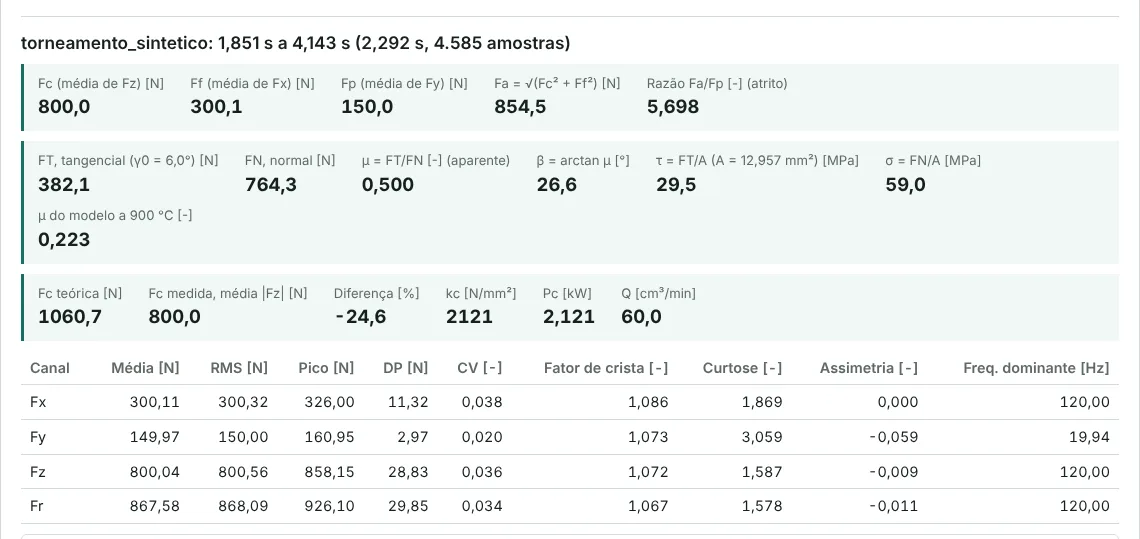
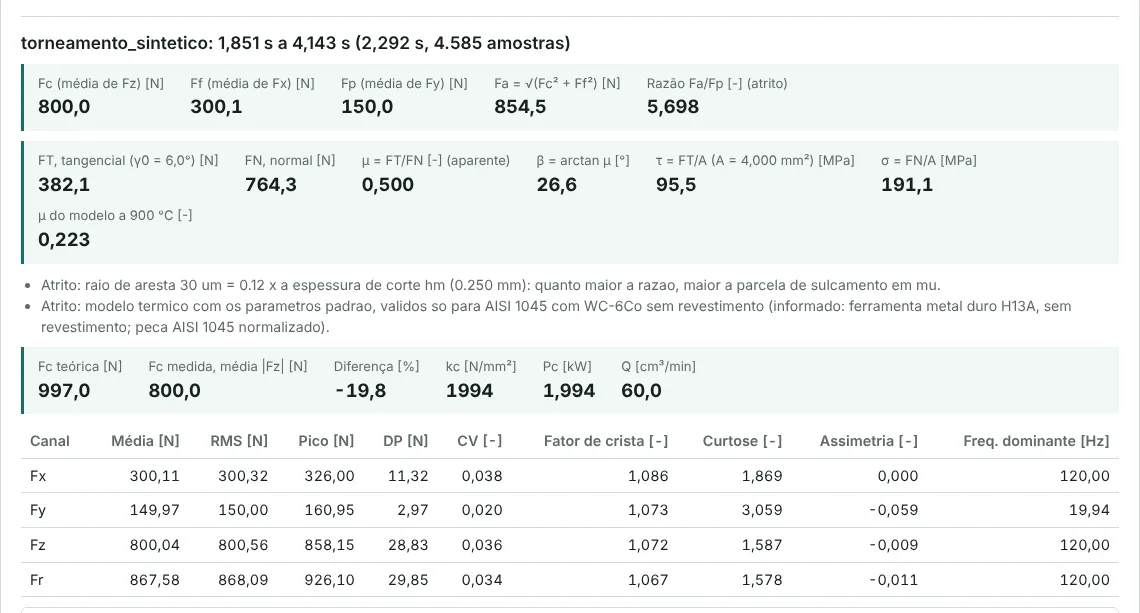
feat(forcas): registro de ferramenta e peca; g0 e kr em um campo so
- quadro 'Ferramenta e peca' na etapa 2: inserto, material, revestimento, material da peca,
  g0, kr, a0, raio de ponta, raio de aresta e VB (opcionais); vai para o relatorio e ferramenta.csv
- g0 e kr saem dos quadros de atrito e de forca teorica e passam a vir da ferramenta
  (obrigatorios so quando uma dessas opcoes esta marcada); configuracao salva antiga e migrada
- avisos na analise do atrito conforme a ferramenta: corte nao ortogonal (kr, raio de ponta),
  desgaste de flanco, raio de aresta (com rb/hm) e modelo termico com parametros padrao
- texto livre neutralizado no CSV (ponto e virgula, quebra de linha, inicio de formula)
- manual de forcas v2.3.0 e capturas; 6 verificacoes novas no autoteste

Claude-Session: https://claude.ai/code/session_01ByixqnmvEjwM8A8Y9nz9he

diff --git a/forcas/manual.html b/forcas/manual.html
@@ -54,7 +54,7 @@
 <article class="doc">
 <header>
   <h1>Manual técnico de uso: forças de usinagem</h1>
-  <p>Módulo de forças de usinagem do LabForce NUPEF, versão web 2.2.0. Redação conforme a ASD-STE100, adaptada ao português.</p>
+  <p>Módulo de forças de usinagem do LabForce NUPEF, versão web 2.3.0. Redação conforme a ASD-STE100, adaptada ao português.</p>
 </header>
 
 <section id="s1">
@@ -259,11 +259,27 @@
     <tr><td>Faixa mínima</td><td>0,5</td><td>s</td><td>Para aceitar faixas mais curtas ou exigir faixas mais longas.</td></tr>
   </tbody>
 </table></div>
-<p>Os campos do atrito só aparecem com a opção <strong>Atrito na face da ferramenta</strong> marcada (tipo de ensaio Torneamento).</p>
+<p>O quadro <strong>Ferramenta e peça</strong> registra a condição do ensaio. Todos os campos são opcionais, exceto γ0 e κr quando o atrito ou a força teórica estiverem marcados.</p>
+<div class="tabela-rolar"><table>
+  <thead><tr><th>Campo</th><th>Valor padrão</th><th>Unidade</th><th>Uso</th></tr></thead>
+  <tbody>
+    <tr><td>Identificação / código do inserto</td><td>vazio</td><td>-</td><td>Registro (exemplo: <code>CNMG 120408</code>).</td></tr>
+    <tr><td>Material e classe da ferramenta</td><td>vazio</td><td>-</td><td>Registro. Aparece no aviso do modelo de atrito com a temperatura.</td></tr>
+    <tr><td>Revestimento</td><td>vazio</td><td>-</td><td>Registro. Aparece no mesmo aviso.</td></tr>
+    <tr><td>Material da peça</td><td>vazio</td><td>-</td><td>Registro. Aparece no mesmo aviso.</td></tr>
+    <tr><td>γ0</td><td>0</td><td>°</td><td>Ângulo de saída, entre −90° e 90°. Entra no cálculo do atrito e da força teórica. No ensaio de atrito com plano inclinado de α, use γ0 = α − 90°.</td></tr>
+    <tr><td>κr</td><td>90</td><td>°</td><td>Ângulo de posição, entre 0° e 180°. Entra no cálculo da força teórica. Diferente de 90°: aviso de corte não ortogonal no atrito.</td></tr>
+    <tr><td>α0</td><td>vazio</td><td>°</td><td>Ângulo de folga. Registro.</td></tr>
+    <tr><td>rε</td><td>vazio</td><td>mm</td><td>Raio de ponta. Registro. Maior que 0: aviso de corte não ortogonal no atrito.</td></tr>
+    <tr><td>rβ</td><td>vazio</td><td>µm</td><td>Raio de aresta. Registro. Maior que 0: aviso de sulcamento no atrito, com a razão rβ/hm quando a força teórica estiver marcada.</td></tr>
+    <tr><td>VB</td><td>vazio</td><td>mm</td><td>Desgaste de flanco no ensaio. Registro. Maior que 0: aviso no atrito.</td></tr>
+  </tbody>
+</table></div>
+<p class="seg seg-nota"><strong>NOTA:</strong> Os campos de registro não entram em nenhum cálculo. O módulo não corrige μ pelo raio de aresta nem pelo desgaste: ele só avisa que essas condições alteram o valor aparente.</p>
+<p>Os campos do atrito só aparecem com a opção <strong>Atrito na face da ferramenta</strong> marcada (tipo de ensaio Torneamento). O ângulo γ0 vem do quadro <strong>Ferramenta e peça</strong>.</p>
 <div class="tabela-rolar"><table>
   <thead><tr><th>Campo</th><th>Valor padrão</th><th>Unidade</th><th>Quando alterar</th></tr></thead>
   <tbody>
-    <tr><td>γ0</td><td>0</td><td>°</td><td>Em cada ferramenta: use o ângulo de saída real, entre −90° e 90°. No ensaio de atrito com plano inclinado de α, use γ0 = α − 90°.</td></tr>
     <tr><td>A</td><td>vazio</td><td>mm²</td><td>Para calcular as tensões médias de contato. Vazio: o módulo não calcula as tensões. No ensaio de atrito, use <strong>Calcular A no ensaio de atrito</strong> com b1, b2, t e α.</td></tr>
     <tr><td>T</td><td>vazio</td><td>°C</td><td>Para calcular μ pelo modelo com a temperatura. Use uma temperatura de contato estimada por medição ou por simulação. Vazio: o módulo não calcula o modelo.</td></tr>
     <tr><td>μ0</td><td>0,7</td><td>-</td><td>Quando o par de materiais não for AISI 1045 com metal duro WC-6Co sem revestimento.</td></tr>
@@ -272,15 +288,13 @@
     <tr><td>T de fusão</td><td>1500</td><td>°C</td><td>Use a temperatura de fusão do material da peça. Deve ser maior que T0.</td></tr>
   </tbody>
 </table></div>
-<p>Os campos da força teórica só aparecem com a opção <strong>Força de corte teórica</strong> marcada.</p>
+<p>Os campos da força teórica só aparecem com a opção <strong>Força de corte teórica</strong> marcada. Os ângulos κr e γ0 vêm do quadro <strong>Ferramenta e peça</strong>.</p>
 <div class="tabela-rolar"><table>
   <thead><tr><th>Campo</th><th>Valor padrão</th><th>Unidade</th><th>Quando alterar</th></tr></thead>
   <tbody>
     <tr><td>ap</td><td>2</td><td>mm</td><td>Em cada ensaio: use a profundidade de corte real.</td></tr>
     <tr><td>fn</td><td>0,25</td><td>mm/rot</td><td>Em cada ensaio: use o avanço real.</td></tr>
     <tr><td>vc</td><td>120</td><td>m/min</td><td>Em cada ensaio. Para calcular vc pelo diâmetro D [mm] e pela rotação n [rpm], use <strong>Calcular vc pelo diâmetro e pela rotação</strong>.</td></tr>
-    <tr><td>κr</td><td>90</td><td>°</td><td>Quando o ângulo de posição da ferramenta for outro.</td></tr>
-    <tr><td>γ0</td><td>0</td><td>°</td><td>Quando o ângulo de saída da ferramenta for outro.</td></tr>
     <tr><td>kc1</td><td>vazio</td><td>N/mm²</td><td>Sempre: digite o valor do catálogo para o material da peça.</td></tr>
     <tr><td>mc</td><td>0,25</td><td>-</td><td>Quando o catálogo der outro valor para o material da peça.</td></tr>
   </tbody>
@@ -322,8 +336,8 @@
 </ol>
 <h3 id="s10-2">10.2 Configurar a análise</h3>
 <figure>
-  <img src="img/manual/configuracao.webp" width="1140" height="1595" alt="Etapa 2: quadros de colunas do arquivo, calibração por canal com fatores 1,0, faixas e saídas, o quadro de componentes da força com Fc, Ff e Fp e o canal de cada uma, o quadro do atrito na face da ferramenta com γ0, área de contato e temperatura de contato, e o quadro da força de corte teórica com ap, fn, vc, κr, γ0, kc1 e mc." loading="lazy">
-  <figcaption>Figura 3 — Etapa 2 com o atrito na face da ferramenta e a força de corte teórica marcados.</figcaption>
+  <img src="img/manual/configuracao.webp" width="1140" height="2028" alt="Etapa 2: quadros de colunas do arquivo, calibração por canal com fatores 1,0, faixas e saídas, o quadro de componentes da força com Fc, Ff e Fp e o canal de cada uma, o quadro de ferramenta e peça com identificação, materiais, γ0, κr, α0, rε, rβ e VB, o quadro do atrito na face da ferramenta com área de contato e temperatura de contato, e o quadro da força de corte teórica com ap, fn, vc, kc1 e mc." loading="lazy">
+  <figcaption>Figura 3 — Etapa 2 com a ferramenta informada e com o atrito na face da ferramenta e a força de corte teórica marcados.</figcaption>
 </figure>
 <ol class="passos">
   <li>Em <strong>Colunas do arquivo</strong>, escolha a grandeza de cada coluna.</li>
@@ -333,7 +347,8 @@
   <li>Para delimitar antes uma região de interesse, marque <strong>Delimitar antes uma região de interesse (zoom)</strong>.</li>
   <li>Para escolher um zoom diferente para cada faixa, marque também <strong>Zoom em cada faixa</strong>.</li>
   <li>Marque ou desmarque <strong>Espectro de amplitude (FFT)</strong> e <strong>Salvar gráficos (PNG)</strong>.</li>
-  <li>Para calcular o atrito na face da ferramenta, marque <strong>Atrito na face da ferramenta</strong> e preencha γ0. A área de contato e a temperatura de contato são opcionais (seção 8).</li>
+  <li>Em <strong>Ferramenta e peça</strong>, registre a ferramenta, a peça e os ângulos γ0 e κr (seção 8).</li>
+  <li>Para calcular o atrito na face da ferramenta, marque <strong>Atrito na face da ferramenta</strong>. A área de contato e a temperatura de contato são opcionais (seção 8).</li>
   <li>Para comparar com a força teórica, marque <strong>Força de corte teórica</strong> e preencha os campos (seção 8).</li>
   <li>Clique em <strong>Continuar</strong>.</li>
 </ol>
@@ -378,16 +393,17 @@
 <p>Cada rodada cria uma pasta de resultados nova. O módulo não substitui os resultados de rodadas anteriores.</p>
 <p>Com 1 faixa por ensaio, o rótulo é o nome do ensaio (exemplo: <code>E1.3</code>). Com 2 ou mais faixas, o rótulo tem o número da faixa (exemplo: <code>E1.3_f2</code>).</p>
 <figure>
-  <img src="img/manual/resultados.webp" width="1140" height="539" alt="Etapa 5: quadro das componentes Fc, Ff e Fp, da força ativa Fa e da razão Fa/Fp; quadro do atrito com FT, FN, μ, β, tensões τ e σ e μ do modelo; comparação da força teórica com a medida; tabela com média, RMS, pico, DP, CV, fator de crista, curtose, assimetria e frequência dominante de Fx, Fy, Fz e Fr." loading="lazy">
+  <img src="img/manual/resultados.webp" width="1140" height="613" alt="Etapa 5: quadro das componentes Fc, Ff e Fp, da força ativa Fa e da razão Fa/Fp; quadro do atrito com FT, FN, μ, β, tensões τ e σ e μ do modelo; comparação da força teórica com a medida; tabela com média, RMS, pico, DP, CV, fator de crista, curtose, assimetria e frequência dominante de Fx, Fy, Fz e Fr." loading="lazy">
   <figcaption>Figura 5 — Etapa 5: componentes da força e razão Fa/Fp, atrito na face da ferramenta, comparação com a força teórica e estatística por canal. Abaixo, a tela mostra os gráficos da faixa.</figcaption>
 </figure>
 <div class="tabela-rolar"><table>
   <thead><tr><th>Arquivo</th><th>Quando o módulo grava</th><th>Conteúdo</th></tr></thead>
   <tbody>
-    <tr><td><code>relatorio.txt</code></td><td>Sempre</td><td>Colunas, calibração, componentes da força, opções, taxa de amostragem, avisos, estatística, componentes e razão Fa/Fp de cada faixa.</td></tr>
+    <tr><td><code>relatorio.txt</code></td><td>Sempre</td><td>Colunas, calibração, ferramenta e peça, componentes da força, opções, taxa de amostragem, avisos, estatística, componentes e razão Fa/Fp de cada faixa.</td></tr>
     <tr><td><code>forcas_resumo.csv</code></td><td>Sempre</td><td>Uma linha por faixa e canal (Fx, Fy, Fz, Fr): tempos, n, fs, média, RMS, pico, DP, CV, fator de crista, curtose, assimetria, frequência dominante. Separador: ponto e vírgula. Decimal: vírgula.</td></tr>
     <tr><td><code>&lt;rótulo&gt;_faixa.csv</code></td><td>Sempre</td><td>As amostras da faixa: tempo [s], Fx, Fy, Fz e Fr [N], já com os fatores de calibração.</td></tr>
     <tr><td><code>componentes.csv</code></td><td>Sempre</td><td>Uma linha por faixa: processo, as 3 componentes com o canal e a média de cada uma [N], a força ativa Fa [N] e a razão Fa/Fp [-]. A razão fica vazia quando Fp é nula.</td></tr>
+    <tr><td><code>ferramenta.csv</code></td><td>Algum campo de <strong>Ferramenta e peça</strong> preenchido</td><td>Uma linha: identificação, material da ferramenta, revestimento, material da peça, γ0, κr, α0, rε, rβ e VB.</td></tr>
     <tr><td><code>atrito.csv</code></td><td>Atrito marcado</td><td>Uma linha por faixa: γ0, Fc, Ff, F<sub>T</sub>, F<sub>N</sub>, μ, β, área, tensões τ e σ, temperatura, μ do modelo e os parâmetros do modelo. Os campos sem valor ficam vazios.</td></tr>
     <tr><td><code>corte_teorico.csv</code></td><td>Força teórica marcada</td><td>Uma linha por faixa: parâmetros de corte, hm, kc, Fc teórica, Pc, Q, Fc medida e diferença [%].</td></tr>
     <tr><td><code>&lt;ensaio&gt;_faixas.png</code></td><td>Gráficos marcados</td><td>Forças do ensaio com as faixas marcadas (registro da seleção).</td></tr>
@@ -485,6 +501,7 @@ AISI 1045 com WC-6Co sem revestimento:
 </table></div>
 <p class="seg seg-cui"><strong>CUIDADO:</strong> O cálculo vale para corte ortogonal. A transformação despreza a força de sulcamento no raio da aresta e o desgaste de flanco, e supõe μ constante na interface. Com aresta desgastada ou raio de aresta grande, μ aparente difere do atrito real da interface.</p>
 <p class="seg seg-cui"><strong>CUIDADO:</strong> Os parâmetros padrão do modelo foram calibrados por simulação de elementos finitos só para AISI 1045 com metal duro WC-6Co sem revestimento. Não use esses valores em outro par de materiais. A 20 m/min o artigo observou adesão de material, e o modelo não representa essa condição.</p>
+<p>Com a ferramenta informada, a análise do atrito mostra avisos na tela e no relatório (<code>AVISO atrito</code>): κr diferente de 90° ou raio de ponta maior que 0 (corte não ortogonal), VB maior que 0 (força no flanco), raio de aresta maior que 0 (sulcamento) e modelo com a temperatura usado com os parâmetros padrão.</p>
 <p class="seg seg-nota"><strong>NOTA:</strong> A temperatura de contato não é medida pelo dinamômetro. O artigo mediu a temperatura da superfície 1,5 mm abaixo do contato e obteve a temperatura de contato por simulação. Quando F<sub>N</sub> é nula ou negativa, μ não tem valor: a tela mostra “indefinido (FN ≤ 0)”. Confira γ0 e os canais de Fc e Ff.</p>
 </section>
 
@@ -497,6 +514,7 @@ AISI 1045 com WC-6Co sem revestimento:
     <tr><td>“Escolha tempo, Fx, Fy e Fz uma vez cada”</td><td>Uma grandeza está em 2 colunas ou falta uma grandeza.</td><td>Corrija o mapeamento das colunas.</td></tr>
     <tr><td>“Use Fx, Fy e Fz uma vez cada: cada componente em um canal diferente”</td><td>Duas componentes estão no mesmo canal em <strong>Componentes da força</strong>.</td><td>Escolha um canal diferente para cada componente, ou clique em <strong>Voltar ao padrão deste processo</strong>.</td></tr>
     <tr><td>μ “indefinido (FN ≤ 0)” ou μ muito diferente do esperado</td><td>γ0 errado, ou os canais de Fc e Ff estão trocados.</td><td>Confira o ângulo de saída e <strong>Componentes da força</strong>. No ensaio de atrito, use γ0 = α − 90°.</td></tr>
+    <tr><td>“Digite o ângulo de saída” ou “Digite o ângulo de posição”</td><td>γ0 ou κr está vazio em <strong>Ferramenta e peça</strong> com o atrito ou a força teórica marcados.</td><td>Digite o ângulo, ou desmarque a opção que usa o ângulo.</td></tr>
     <tr><td><strong>Atrito na face da ferramenta</strong> desabilitado</td><td>O tipo de ensaio não é Torneamento.</td><td>O cálculo usa Fc e Ff. Para um ensaio ortogonal em outra máquina, escolha Torneamento na etapa 1 e indique os canais de Fc e Ff.</td></tr>
     <tr><td>Fc, Ff e Fp trocadas, ou razão Fa/Fp fora do esperado</td><td>A correspondência das componentes não é a da montagem real.</td><td>Compare os eixos do dinamômetro com as direções de corte e de avanço e corrija <strong>Componentes da força</strong>.</td></tr>
     <tr><td><code>arquivo sem 4 colunas numéricas válidas</code></td><td>O arquivo tem menos de 4 colunas, ou o mapeamento está errado.</td><td>Abra o arquivo num editor de texto e confira as colunas.</td></tr>
@@ -531,7 +549,7 @@ AISI 1045 com WC-6Co sem revestimento:
 </div>
 
 <footer class="rodape">
-  <p>LabForce NUPEF, IFG Câmpus Goiânia. Módulo de forças de usinagem, versão web 2.2.0.</p>
+  <p>LabForce NUPEF, IFG Câmpus Goiânia. Módulo de forças de usinagem, versão web 2.3.0.</p>
   <div class="inst">
     <div class="logos-inst">
       <a class="logo-ifg" href="https://www.ifg.edu.br/goiania" rel="noopener noreferrer"><img src="../assets/logo-ifg-goiania.png" alt="Instituto Federal de Goiás, Câmpus Goiânia" width="52" height="72" loading="lazy"></a>

diff --git a/forcas/js/app.js b/forcas/js/app.js
@@ -1,6 +1,6 @@
 // app.js - interface do modulo de forcas: etapas, selecao das faixas, analise e
 // gravacao dos resultados na pasta do usuario (ou .zip). Mesmo padrao do modulo eletrico.
-import { ROT, PADRAO, CANAIS, CAB_RESUMO, CAB_TEORICO, CAB_COMP, CAB_ATRITO, VERSAO, prepararEnsaio, analisarFaixa } from "./analise.js";
+import { ROT, PADRAO, CANAIS, CAB_RESUMO, CAB_TEORICO, CAB_COMP, CAB_ATRITO, CAB_FERRAMENTA, linhaFerramenta, temFerramenta, VERSAO, prepararEnsaio, analisarFaixa } from "./analise.js";
 import { mapaValido, vcDeDn, COMPONENTES, compValido, areaContato } from "./nucleo.js";
 import { DINAMOMETROS, PADRAO_DINAMOMETRO } from "./dinamometros.js";
 import { CORES, figuraSinal, figuraEspectro, figuraDistribuicao } from "./figuras.js";
@@ -15,9 +15,12 @@ import {
 
 const CHAVE = "forcas-config-v1";
 const ROT_CAMPO = { tempo: "tempo [s]", fx: "Fx [N]", fy: "Fy [N]", fz: "Fz [N]", ignorar: "ignorar" };
-const TEO = [["tAp", "ap"], ["tFn", "fn"], ["tVc", "vc"], ["tKr", "kr"], ["tG0", "g0"], ["tKc1", "kc1"], ["tMc", "mc"]];
+const TEO = [["tAp", "ap"], ["tFn", "fn"], ["tVc", "vc"], ["tKc1", "kc1"], ["tMc", "mc"]];
+// ferramenta e peca: texto (registro) e numeros; g0 e kr alimentam o atrito e a forca teorica
+const FER_TXT = [["fId", "id"], ["fMat", "material"], ["fRev", "revestimento"], ["fPeca", "peca"]];
+const FER_NUM = [["fG0", "g0"], ["fKr", "kr"], ["fA0", "a0"], ["fRe", "re"], ["fRb", "rb"], ["fVB", "vb"]];
 
-const ATR = [["aG0", "g0"], ["aA", "A"], ["aT", "T"], ["aMu0", "mu0"], ["aT0", "T0"], ["aM", "m"], ["aTf", "Tf"]];
+const ATR = [["aA", "A"], ["aT", "T"], ["aMu0", "mu0"], ["aT0", "T0"], ["aM", "m"], ["aTf", "Tf"]];
 
 let pasta = null, arquivos = [], cfg = null, rodada = null, ensaio = null;
 
@@ -69,6 +72,10 @@ function montarConfig() {
   const aplicaComp = (m) => { for (const c of ["a", "b", "p"]) { $("comp_" + c).value = m[c]; $("comp_" + c).removeAttribute("aria-invalid"); } $("e-comp").textContent = ""; };
   $("btCompPadrao").addEventListener("click", () => { const t = tipoEnsaio(); aplicaComp(COMPONENTES[t].padrao); compSalvo[t] = lerComp(); });
   $("pDur").value = txt(s.duracaoMin ?? PADRAO.duracaoMin);
+  // ferramenta e peca; configuracao antiga: g0 e kr vinham da forca teorica e do atrito
+  const fer = { g0: s.atrito?.g0 ?? s.teorico?.g0 ?? PADRAO.teorico.g0, kr: s.teorico?.kr ?? PADRAO.teorico.kr, ...(s.ferramenta || {}) };
+  for (const [id, c] of FER_TXT) $(id).value = fer[c] || "";
+  for (const [id, c] of FER_NUM) $(id).value = txt(fer[c]);
   // atrito na face da ferramenta (Puls; Klocke; Lung, 2014)
   const at = { ...PADRAO.atrito, ...(s.atrito || {}) };
   for (const [id, c] of ATR) $(id).value = txt(at[c]);
@@ -138,7 +145,19 @@ function validarConfig() {
   $("e-comp").textContent = okComp ? "" : "Use Fx, Fy e Fz uma vez cada: cada componente em um canal diferente.";
   if (!okComp) erros.push("componentes");
   const teo = { canal: comp.a };        // forca teorica (torneamento): comparada com o canal de Fc
-  const opTeo = $("opTeo").checked;
+  const opTeo = $("opTeo").checked && !$("opTeo").disabled, usaAtr = $("opAtr").checked && !$("opAtr").disabled;
+  const fer = {};
+  for (const [id, c] of FER_TXT) fer[c] = $(id).value.trim().slice(0, 80);
+  for (const [id, c] of FER_NUM) {
+    const vazio = $(id).value.trim() === "", v = vazio ? null : numero($(id).value); fer[c] = v;
+    let msg = "";
+    if (c === "g0") msg = vazio ? (opTeo || usaAtr ? "Digite o ângulo de saída: ele é usado no atrito e na força teórica." : "") : v > -90 && v < 90 ? "" : "Digite um ângulo entre −90° e 90°.";
+    else if (c === "kr") msg = vazio ? (opTeo ? "Digite o ângulo de posição: ele é usado na força teórica." : "") : v > 0 && v <= 180 ? "" : "Digite um ângulo entre 0° e 180°.";
+    else if (c === "a0") msg = vazio || (v >= 0 && v < 90) ? "" : "Digite um ângulo entre 0° e 90° ou deixe vazio.";
+    else msg = vazio || v >= 0 ? "" : "Digite um valor de 0 ou mais, ou deixe vazio.";
+    erros.push(...marcar(id, msg));
+  }
+  teo.kr = fer.kr; teo.g0 = fer.g0;
   for (const [id, c] of TEO) {
     const v = numero($(id).value); teo[c] = v;
     if (!opTeo) { marcar(id, ""); continue; }
@@ -150,7 +169,7 @@ function validarConfig() {
     else msg = v > 0 ? "" : "Digite um valor maior que zero.";
     erros.push(...marcar(id, msg));
   }
-  const atr = {}, opAtr = $("opAtr").checked && !$("opAtr").disabled;
+  const atr = { g0: fer.g0 }, opAtr = usaAtr;
   for (const [id, c] of ATR) {
     const vazio = $(id).value.trim() === "", v = vazio ? null : numero($(id).value); atr[c] = v;
     if (!opAtr) { marcar(id, ""); continue; }
@@ -171,8 +190,8 @@ function validarConfig() {
   const op = { fft: $("opFFT").checked, graficos: $("opGraf").checked, teorico: opTeo, atrito: opAtr };
   const tipo = tipoEnsaio(), modelo = $("modelo").value;
   if (tipo !== "torneamento") op.teorico = false;
-  salvar({ mapa, k, nFaixas: Number($("nFaixas").value), ...lerZoom(), op: { ...op, atrito: $("opAtr").checked }, teorico: teo, atrito: atr, duracaoMin: dur, tipo, modelo, comp: { ...(lerSalvo().comp || {}), [tipo]: comp } });
-  return { nFaixas: Number($("nFaixas").value), ...lerZoom(), op, tipo, modelo, p: { mapa, k, duracaoMin: dur, teorico: teo, atrito: atr, modelo, tipo, comp } };
+  salvar({ mapa, k, nFaixas: Number($("nFaixas").value), ...lerZoom(), op: { ...op, atrito: $("opAtr").checked }, teorico: teo, atrito: atr, ferramenta: fer, duracaoMin: dur, tipo, modelo, comp: { ...(lerSalvo().comp || {}), [tipo]: comp } });
+  return { nFaixas: Number($("nFaixas").value), ...lerZoom(), op, tipo, modelo, p: { mapa, k, duracaoMin: dur, teorico: teo, atrito: atr, ferramenta: fer, modelo, tipo, comp } };
 }
 
 function lerComp() { return { a: $("comp_a").value, b: $("comp_b").value, p: $("comp_p").value }; }
@@ -229,6 +248,11 @@ async function iniciarRodada() {
     destino.modo === "pasta" ? `${pasta.name}/${nome}` : `${nome}.zip`));
   log.push(`Ensaio: ${c.tipo === "torneamento" ? "torneamento" : "fresamento, furacao ou rosqueamento"} | dinamometro Kistler ${c.modelo}`);
   log.push(`Colunas: ${c.p.mapa.join(" ")} | calibracao [Fx Fy Fz]: ${[c.p.k.fx, c.p.k.fy, c.p.k.fz].join(" ")}`);
+  if (temFerramenta(c.p.ferramenta)) {
+    const f = c.p.ferramenta, t = (v) => v || "-", n = (v, u) => (Number.isFinite(v) ? `${String(v).replace(".", ",")} ${u}` : "-");
+    log.push(`Ferramenta: ${t(f.id)} | material ${t(f.material)} | revestimento ${t(f.revestimento)} | peca: ${t(f.peca)}`);
+    log.push(`  g0 ${n(f.g0, "graus")} | kr ${n(f.kr, "graus")} | a0 ${n(f.a0, "graus")} | raio de ponta ${n(f.re, "mm")} | raio de aresta ${n(f.rb, "um")} | VB ${n(f.vb, "mm")}`);
+  }
   log.push(`Componentes (montagem): ${["a", "b", "p"].map((k) => `${COMPONENTES[c.tipo].rot[k]} = ${ROT[c.p.comp[k]]}`).join(" | ")} | Fa = raiz(${COMPONENTES[c.tipo].rot.a}^2 + ${COMPONENTES[c.tipo].rot.b}^2) | atrito: razao Fa/Fp`);
   log.push(sprintf("Faixas por ensaio: %d (%s) | faixa minima %g s | FFT: %s | graficos: %s | forca teorica: %s",
     c.nFaixas, c.zoom ? (c.zoomPorFaixa ? "com zoom em cada faixa" : "com zoom") : "sem zoom", c.p.duracaoMin, c.op.fft ? "sim" : "nao", c.op.graficos ? "sim" : "nao", c.op.teorico ? "sim" : "nao"));
@@ -348,6 +372,7 @@ async function gravarResumos() {
   if (R.teo.length) arqs.push(["corte_teorico.csv", [CAB_TEORICO, ...R.teo]]);
   if (R.comp.length) arqs.push(["componentes.csv", [CAB_COMP, ...R.comp]]);
   if (R.atr.length) arqs.push(["atrito.csv", [CAB_ATRITO, ...R.atr]]);
+  if (temFerramenta(cfg?.p.ferramenta)) arqs.push(["ferramenta.csv", [CAB_FERRAMENTA, linhaFerramenta(cfg.p.ferramenta)]]);
   await gravarTodos(R, [...arqs, ["relatorio.txt", R.log]]);
 }
 
@@ -393,6 +418,11 @@ function mostrarFaixa(r, figs) {
       s.textContent = rot; b.textContent = val; c.append(s, b); box.appendChild(c);
     }
     d.appendChild(box);
+    if (q.avisos?.length) {
+      const ul = document.createElement("ul"); ul.className = "avisos-faixa";
+      for (const av of q.avisos) { const li = document.createElement("li"); li.textContent = "Atrito: " + av; ul.appendChild(li); }
+      d.appendChild(ul);
+    }
   }
   if (r.teorico) {
     const q = r.teorico, box = document.createElement("div"); box.className = "comparacao";

diff --git a/forcas/index.html b/forcas/index.html
@@ -172,12 +172,28 @@
       <button id="btCompPadrao" class="lnk" type="button">Voltar ao padrão deste processo</button>
     </fieldset>
 
+    <fieldset class="teorico ferramenta">
+      <legend>Ferramenta e peça (registro do ensaio)</legend>
+      <div class="grade4">
+        <label class="lin">Identificação / código do inserto<input id="fId" maxlength="80" autocomplete="off" placeholder="ex.: CNMG 120408"></label>
+        <label class="lin">Material e classe da ferramenta<input id="fMat" maxlength="80" autocomplete="off" placeholder="ex.: metal duro H13A"></label>
+        <label class="lin">Revestimento<input id="fRev" maxlength="80" autocomplete="off" placeholder="ex.: sem revestimento"></label>
+        <label class="lin">Material da peça<input id="fPeca" maxlength="80" autocomplete="off" placeholder="ex.: AISI 1045 normalizado"></label>
+        <label class="lin">γ0: ângulo de saída [°]<input id="fG0" inputmode="decimal"><span class="campo-erro" id="e-fG0"></span></label>
+        <label class="lin">κr: ângulo de posição [°]<input id="fKr" inputmode="decimal"><span class="campo-erro" id="e-fKr"></span></label>
+        <label class="lin">α0: ângulo de folga [°]<input id="fA0" inputmode="decimal"><span class="campo-erro" id="e-fA0"></span></label>
+        <label class="lin">rε: raio de ponta [mm]<input id="fRe" inputmode="decimal"><span class="campo-erro" id="e-fRe"></span></label>
+        <label class="lin">rβ: raio de aresta [µm]<input id="fRb" inputmode="decimal"><span class="campo-erro" id="e-fRb"></span></label>
+        <label class="lin">VB: desgaste de flanco no ensaio [mm]<input id="fVB" inputmode="decimal"><span class="campo-erro" id="e-fVB"></span></label>
+      </div>
+      <p class="nota">Todos os campos são opcionais e vão para o relatório e para <code>ferramenta.csv</code>. γ0 é usado no atrito e na força de corte teórica; κr, na força de corte teórica. Os demais campos são registro: não entram nos cálculos, mas geram avisos na análise do atrito.</p>
+    </fieldset>
+
     <fieldset class="teorico">
       <legend><label class="chk"><input type="checkbox" id="opAtr"> Atrito na face da ferramenta (opcional, corte ortogonal)</label></legend>
       <div id="blocoAtr" hidden>
-        <p class="nota">Coeficiente de atrito aparente pela transformação geométrica das forças (Merchant): F<sub>T</sub> = F<sub>c</sub>·sen γ0 + F<sub>f</sub>·cos γ0; F<sub>N</sub> = F<sub>c</sub>·cos γ0 − F<sub>f</sub>·sen γ0; μ = F<sub>T</sub>/F<sub>N</sub>. Tensões médias e modelo de atrito com a temperatura conforme Puls, Klocke e Lung (<a href="https://doi.org/10.1016/j.wear.2013.12.020" rel="noopener noreferrer">Wear, v. 310, 2014</a>). Usa os canais de F<sub>c</sub> e F<sub>f</sub> de “Componentes da força”.</p>
+        <p class="nota">Coeficiente de atrito aparente pela transformação geométrica das forças (Merchant): F<sub>T</sub> = F<sub>c</sub>·sen γ0 + F<sub>f</sub>·cos γ0; F<sub>N</sub> = F<sub>c</sub>·cos γ0 − F<sub>f</sub>·sen γ0; μ = F<sub>T</sub>/F<sub>N</sub>. Tensões médias e modelo de atrito com a temperatura conforme Puls, Klocke e Lung (<a href="https://doi.org/10.1016/j.wear.2013.12.020" rel="noopener noreferrer">Wear, v. 310, 2014</a>). Usa os canais de F<sub>c</sub> e F<sub>f</sub> de “Componentes da força” e o ângulo γ0 de “Ferramenta e peça”.</p>
         <div class="grade4">
-          <label class="lin">γ0: ângulo de saída [°]<input id="aG0" inputmode="decimal"><span class="campo-erro" id="e-aG0"></span></label>
           <label class="lin">A: área de contato [mm²] (opcional)<input id="aA" inputmode="decimal" placeholder="vazio: sem tensões"><span class="campo-erro" id="e-aA"></span></label>
           <label class="lin">T: temperatura de contato [°C] (opcional)<input id="aT" inputmode="decimal" placeholder="vazio: sem modelo"><span class="campo-erro" id="e-aT"></span></label>
         </div>
@@ -214,8 +230,6 @@
           <label class="lin">ap: profundidade de corte [mm]<input id="tAp" inputmode="decimal"><span class="campo-erro" id="e-tAp"></span></label>
           <label class="lin">fn: avanço [mm/rot]<input id="tFn" inputmode="decimal"><span class="campo-erro" id="e-tFn"></span></label>
           <label class="lin">vc: velocidade de corte [m/min]<input id="tVc" inputmode="decimal"><span class="campo-erro" id="e-tVc"></span></label>
-          <label class="lin">κr: ângulo de posição [°]<input id="tKr" inputmode="decimal"><span class="campo-erro" id="e-tKr"></span></label>
-          <label class="lin">γ0: ângulo de saída [°]<input id="tG0" inputmode="decimal"><span class="campo-erro" id="e-tG0"></span></label>
           <label class="lin">kc1: força específica (hm = 1 mm) [N/mm²]<input id="tKc1" inputmode="decimal" placeholder="catálogo do material"><span class="campo-erro" id="e-tKc1"></span></label>
           <label class="lin">mc: expoente [-]<input id="tMc" inputmode="decimal"><span class="campo-erro" id="e-tMc"></span></label>
         </div>
@@ -227,7 +241,7 @@
             <button id="btVc" class="sec" type="button">Usar vc = π·D·n/1000</button>
           </div>
         </details>
-        <p class="nota">kc1 e mc dependem do material da peça: use os valores do catálogo do fabricante da ferramenta. A força teórica é comparada com o canal indicado como F<sub>c</sub> em “Componentes da força”.</p>
+        <p class="nota">kc1 e mc dependem do material da peça: use os valores do catálogo do fabricante da ferramenta. A força teórica é comparada com o canal indicado como F<sub>c</sub> em “Componentes da força”. κr e γ0 vêm de “Ferramenta e peça”.</p>
       </div>
     </fieldset>
 

diff --git a/forcas/js/analise.js b/forcas/js/analise.js
@@ -5,7 +5,7 @@ import { lerArquivo, taxaDoTempo, estatistica, corteTeorico, componentes, COMPON
 import { sprintf, nv, nv6g } from "../../comum/js/formato.js";
 import { DINAMOMETROS, verificarFaixa } from "./dinamometros.js";
 
-export const VERSAO = "web 2.2.0";
+export const VERSAO = "web 2.3.0";
 export const CANAIS = [
   { k: "fx", rot: "Fx" }, { k: "fy", rot: "Fy" }, { k: "fz", rot: "Fz" }, { k: "fr", rot: "Fr" },
 ];
@@ -17,6 +17,28 @@ export const PADRAO = {
 };
 
 export const CAB_COMP = "Faixa;Processo;CompA;CanalA;MediaA[N];CompB;CanalB;MediaB[N];CompP;CanalP;MediaP[N];Fa[N];Fa/Fp[-]";
+export const CAB_FERRAMENTA = "Identificacao;MaterialFerramenta;Revestimento;MaterialPeca;g0[graus];kr[graus];a0[graus];r_ponta[mm];r_aresta[um];VB[mm]";
+// texto livre em CSV: sem ponto e virgula nem quebra de linha; valor iniciado por = + - @ ganha
+// apostrofo, para a planilha nao o interpretar como formula
+export const textoCSV = (v) => { const t = String(v ?? "").trim().replace(/\s*[;\r\n\t]+\s*/g, ", "); return /^[=+\-@]/.test(t) ? "'" + t : t; };
+export function linhaFerramenta(f = {}) {
+  const n = (v) => (Number.isFinite(v) ? nv(v, "%g") : "");
+  return [textoCSV(f.id), textoCSV(f.material), textoCSV(f.revestimento), textoCSV(f.peca), n(f.g0), n(f.kr), n(f.a0), n(f.re), n(f.rb), n(f.vb)].join(";");
+}
+export const temFerramenta = (f) => !!f && Object.values(f).some((v) => (typeof v === "string" ? v.trim() !== "" : Number.isFinite(v)));
+// Avisos do atrito conforme a ferramenta informada (limites da analise por forcas; Puls, Klocke e Lung, 2014)
+export function avisosAtrito(f = {}, q, teo) {
+  const a = [];
+  if (Number.isFinite(f.kr) && Math.abs(f.kr - 90) > 1e-9) a.push(sprintf("angulo de posicao kr = %g graus: o corte nao e ortogonal; mu e uma aproximacao.", f.kr));
+  if (f.re > 0) a.push(sprintf("raio de ponta %g mm: parte da aresta corta fora do plano ortogonal; mu e uma aproximacao.", f.re));
+  if (f.vb > 0) a.push(sprintf("desgaste de flanco VB = %g mm: a forca no flanco entra em FT e FN; mu aparente difere do atrito na face.", f.vb));
+  if (f.rb > 0) a.push(teo && teo.fn > 0 && Number.isFinite(f.kr)
+    ? sprintf("raio de aresta %g um = %.2f x a espessura de corte hm (%.3f mm): quanto maior a razao, maior a parcela de sulcamento em mu.", f.rb, f.rb / 1000 / (teo.fn * Math.sin(f.kr * Math.PI / 180)), teo.fn * Math.sin(f.kr * Math.PI / 180))
+    : sprintf("raio de aresta %g um: a forca de sulcamento na aresta entra em mu aparente.", f.rb));
+  if (Number.isFinite(q.T) && q.mu0 === ATRITO_TERMICO.mu0 && q.T0 === ATRITO_TERMICO.T0 && q.m === ATRITO_TERMICO.m && q.Tf === ATRITO_TERMICO.Tf)
+    a.push(`modelo termico com os parametros padrao, validos so para AISI 1045 com WC-6Co sem revestimento${f.material || f.revestimento || f.peca ? ` (informado: ferramenta ${[f.material, f.revestimento].filter(Boolean).join(", ") || "-"}; peca ${f.peca || "-"})` : ""}.`);
+  return a;
+}
 export const CAB_ATRITO = "Faixa;g0[graus];Fc[N];Ff[N];FT[N];FN[N];mu[-];beta[graus];A[mm2];tau[MPa];sigma[MPa];T[C];mu_modelo[-];mu0[-];T0[C];m[-];Tfusao[C]";
 export const CAB_RESUMO = "Faixa;Canal;t_ini[s];t_fim[s];n;fs[Hz];Media[N];RMS[N];Pico[N];DP[N];CV[-];FatorCrista[-];Curtose[-];Assimetria[-];FreqDom[Hz]";
 export const CAB_TEORICO = "Faixa;ap[mm];fn[mm/rot];vc[m/min];kr[graus];g0[graus];kc1[N/mm2];mc[-];hm[mm];kc[N/mm2];Fc_teorica[N];Pc[kW];Q[cm3/min];Canal;Fc_medida[N];Diferenca[%]";
@@ -102,6 +124,8 @@ export function analisarFaixa(E, c1, c2, rotulo, p, op, log) {
       q.g0, a.FT, a.FN, Number.isFinite(a.mu) ? sprintf("%.3f", a.mu) : "indefinido (FN <= 0)", Number.isFinite(a.mu) ? sprintf("%.2f", a.beta) : "-"));
     if (temA) log.push(sprintf("  Tensoes medias de contato (A = %g mm2): tangencial %.1f MPa | normal %.1f MPa", q.A, A.tau, A.sigma));
     if (temT) log.push(sprintf("  Modelo termico (mu0 %g, T0 %g C, m %g, fusao %g C): mu(%g C) = %.3f", q.mu0, q.T0, q.m, q.Tf, q.T, A.muModelo));
+    A.avisos = avisosAtrito(p.ferramenta, q, op.teorico ? p.teorico : null);
+    for (const av of A.avisos) log.push("  AVISO atrito: " + av);
     R.linhaAtrito = [rotulo, nv(q.g0, "%g"), nv(Fc, "%.3f"), nv(Ff, "%.3f"), nv(a.FT, "%.3f"), nv(a.FN, "%.3f"), f(a.mu, "%.4f"), Number.isFinite(a.mu) ? nv(a.beta, "%.3f") : "",
       f(A.A, "%g"), f(A.tau, "%.2f"), f(A.sigma, "%.2f"), f(A.T, "%g"), f(A.muModelo, "%.4f"), nv(q.mu0, "%g"), nv(q.T0, "%g"), nv(q.m, "%g"), nv(q.Tf, "%g")].join(";");
   }

diff --git a/forcas/js/autoteste.js b/forcas/js/autoteste.js
@@ -1,7 +1,7 @@
 // autoteste.js - verificacao do modulo de forcas com sinais de resposta conhecida.
 // Roda no navegador (manual, secao 6) e no Node (testes/teste_forcas.js).
 import { lerArquivo, taxaDoTempo, estatistica, freqDominante, corteTeorico, vcDeDn, mapaValido, componentes, compValido, COMPONENTES, atritoMerchant, areaContato, muTermico, ATRITO_TERMICO } from "./nucleo.js";
-import { prepararEnsaio, analisarFaixa, PADRAO } from "./analise.js";
+import { prepararEnsaio, analisarFaixa, PADRAO, avisosAtrito, linhaFerramenta, temFerramenta, textoCSV, CAB_FERRAMENTA } from "./analise.js";
 import { fft } from "../../comum/js/fft.js";
 import { maxF, minPos } from "../../comum/js/graficos.js";
 import { histograma, leituraForma } from "./figuras.js";
@@ -132,6 +132,16 @@ export async function autoteste() {
     const Ra = analisarFaixa(E, 1500, 4499, "SINT", { ...p, atrito: { g0: 0, A: 4, T: 1050 } }, { atrito: true }, []);
     perto(Ra.atrito.mu, Ra.comp.b / Ra.comp.a, 1e-12, "atrito: na faixa, mu = Ff/Fc com g0 = 0"); perto(Ra.atrito.tau, Ra.atrito.FT / 4, 1e-12, "atrito: tensao tangencial media");
     ok(Ra.linhaAtrito.split(";").length === 17 && !analisarFaixa(E, 1500, 4499, "SINT", { ...p, tipo: "fresamento" }, { atrito: true }, []).atrito, "atrito: linha do CSV; nao se aplica ao fresamento"); }
+  // ferramenta: registro em CSV e avisos do atrito
+  { const fer = { id: "CNMG 120408", material: "metal duro; H13A", revestimento: "=TiN", peca: "AISI 1045", g0: -6, kr: 95, a0: 6, re: 0.8, rb: 30, vb: 0.1 };
+    ok(linhaFerramenta(fer) === "CNMG 120408;metal duro, H13A;'=TiN;AISI 1045;-6;95;6;0,8;30;0,1" && linhaFerramenta(fer).split(";").length === CAB_FERRAMENTA.split(";").length, "ferramenta: linha do CSV (sem ; no texto, formula neutralizada)");
+    ok(textoCSV("-x") === "'-x" && textoCSV(" a\nb ") === "a, b" && textoCSV(null) === "", "ferramenta: texto livre seguro no CSV");
+    ok(temFerramenta(fer) && !temFerramenta({ id: " ", g0: null }) && !temFerramenta(undefined), "ferramenta: so grava quando ha algum campo");
+    const q0 = { ...PADRAO.atrito, T: 900 };
+    ok(avisosAtrito(fer, q0, { fn: 0.25 }).length === 5 && avisosAtrito({ kr: 90 }, PADRAO.atrito, null).length === 0 && avisosAtrito(undefined, PADRAO.atrito, null).length === 0, "atrito: avisos pela ferramenta (kr, raio de ponta, VB, raio de aresta, modelo padrao)");
+    ok(avisosAtrito({}, { ...q0, mu0: 0.5 }, null).length === 0, "atrito: modelo com parametros proprios nao gera aviso");
+    const Rv = analisarFaixa(E, 1500, 4499, "SINT", { ...p, ferramenta: fer, atrito: { g0: -6 } }, { atrito: true }, []);
+    ok(Rv.atrito.avisos.length === 4 && Rv.atrito.g0 === -6, "atrito: avisos chegam ao resultado da faixa"); }
   // espectro calculado na analise (roda no Web Worker): pico de Fz em 80 Hz
   const Rf = analisarFaixa(E, 1500, 4499, "SINT", p, { fft: true }, []);
   const Y = Rf.espectro.Y.fz; let kmax = 0; for (let i = 1; i < Y.length; i++) if (Y[i] > Y[kmax]) kmax = i;

diff --git a/forcas/css/forcas.css b/forcas/css/forcas.css
@@ -21,6 +21,8 @@
 .cal { grid-template-columns: repeat(3, minmax(0, 1fr)); }
 .colunas label, .cal label { display: flex; flex-direction: column; font-size: .82rem; color: var(--cinza); }
 .teorico, .componentes { margin-top: 16px; }
+.ferramenta legend { font-weight: 600; }
+.avisos-faixa { margin: 4px 0 10px; padding-left: 20px; color: var(--cinza); font-size: .88rem; }
 .comp-campos { display: grid; grid-template-columns: repeat(3, minmax(0, 1fr)); gap: 6px 14px; max-width: 760px; }
 .comp-campos label { display: flex; flex-direction: column; font-size: .88rem; color: var(--cinza); }
 .comp-campos label b { color: var(--tinta); }

diff --git a/forcas/README.md b/forcas/README.md
@@ -6,12 +6,14 @@ Análise de sinais de dinamômetro (Fx, Fy, Fz) no navegador. É o mesmo padrão
 - **Entrada:** TXT/CSV com 4 colunas mapeáveis (tempo, Fx, Fy, Fz). Aceita DynoWare: metadados, tab e vírgula decimal.
 - **Calibração:** fator por canal (padrão 1,0). Um fator negativo inverte o sentido.
 - **Componentes da força:** o operador indica qual canal (Fx, Fy, Fz) mede Fc, Ff e Fp (torneamento) ou FfN, Ff e Fp (fresamento, furação e rosqueamento), conforme a montagem. A análise calcula a força ativa Fa e a razão Fa/Fp (indicador de atrito).
+- **Ferramenta e peça:** registro opcional (inserto, material, revestimento, material da peça, γ0, κr, α0, rε, rβ, VB) no relatório e em `ferramenta.csv`; γ0 e κr alimentam o atrito e a força teórica.
 - **Atrito na face da ferramenta (opcional):** μ = FT/FN pela transformação geométrica de Fc e Ff com o ângulo de saída, tensões médias de contato e modelo de atrito com a temperatura, conforme Puls, Klocke e Lung (Wear, v. 310, 2014, DOI 10.1016/j.wear.2013.12.020).
 - **Saídas:**
   - `forcas_resumo.csv`;
   - `<faixa>_faixa.csv`;
   - `componentes.csv`;
   - `atrito.csv` (opcional);
+  - `ferramenta.csv` (quando a ferramenta é informada);
   - `corte_teorico.csv` (opcional);
   - PNGs `_faixas`, `_sinal` e `_espectro`;
   - `relatorio.txt`.
